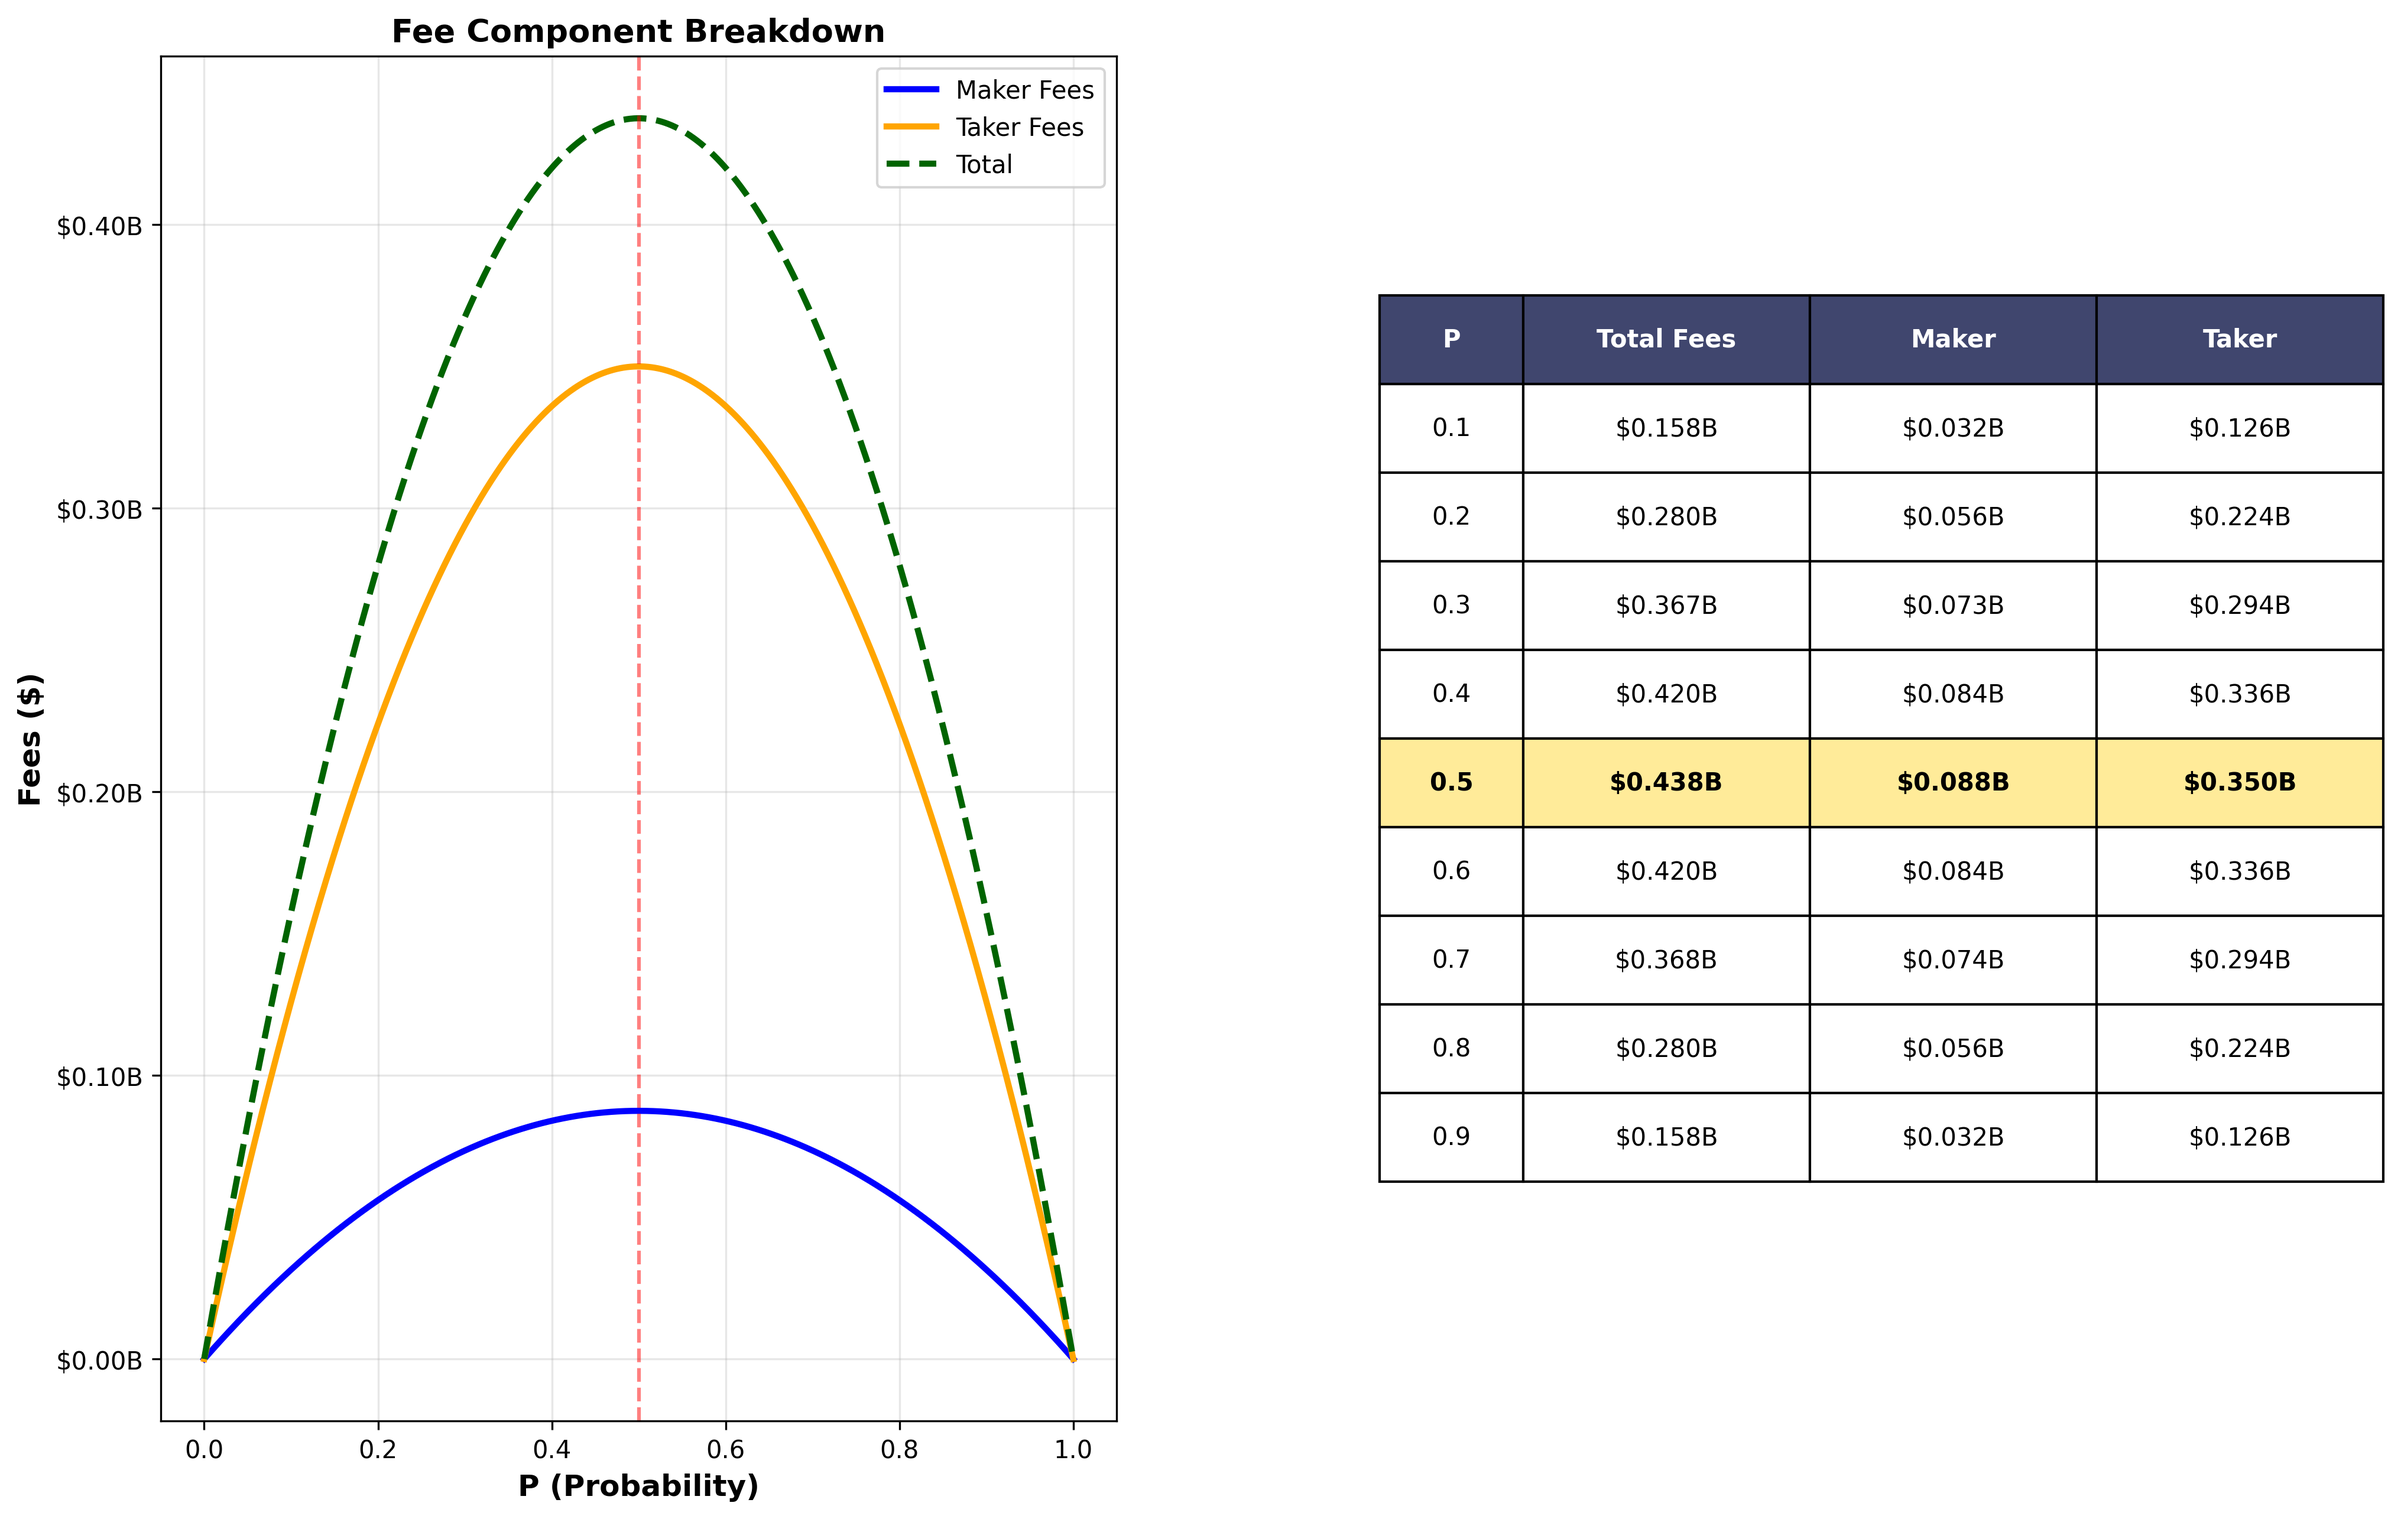
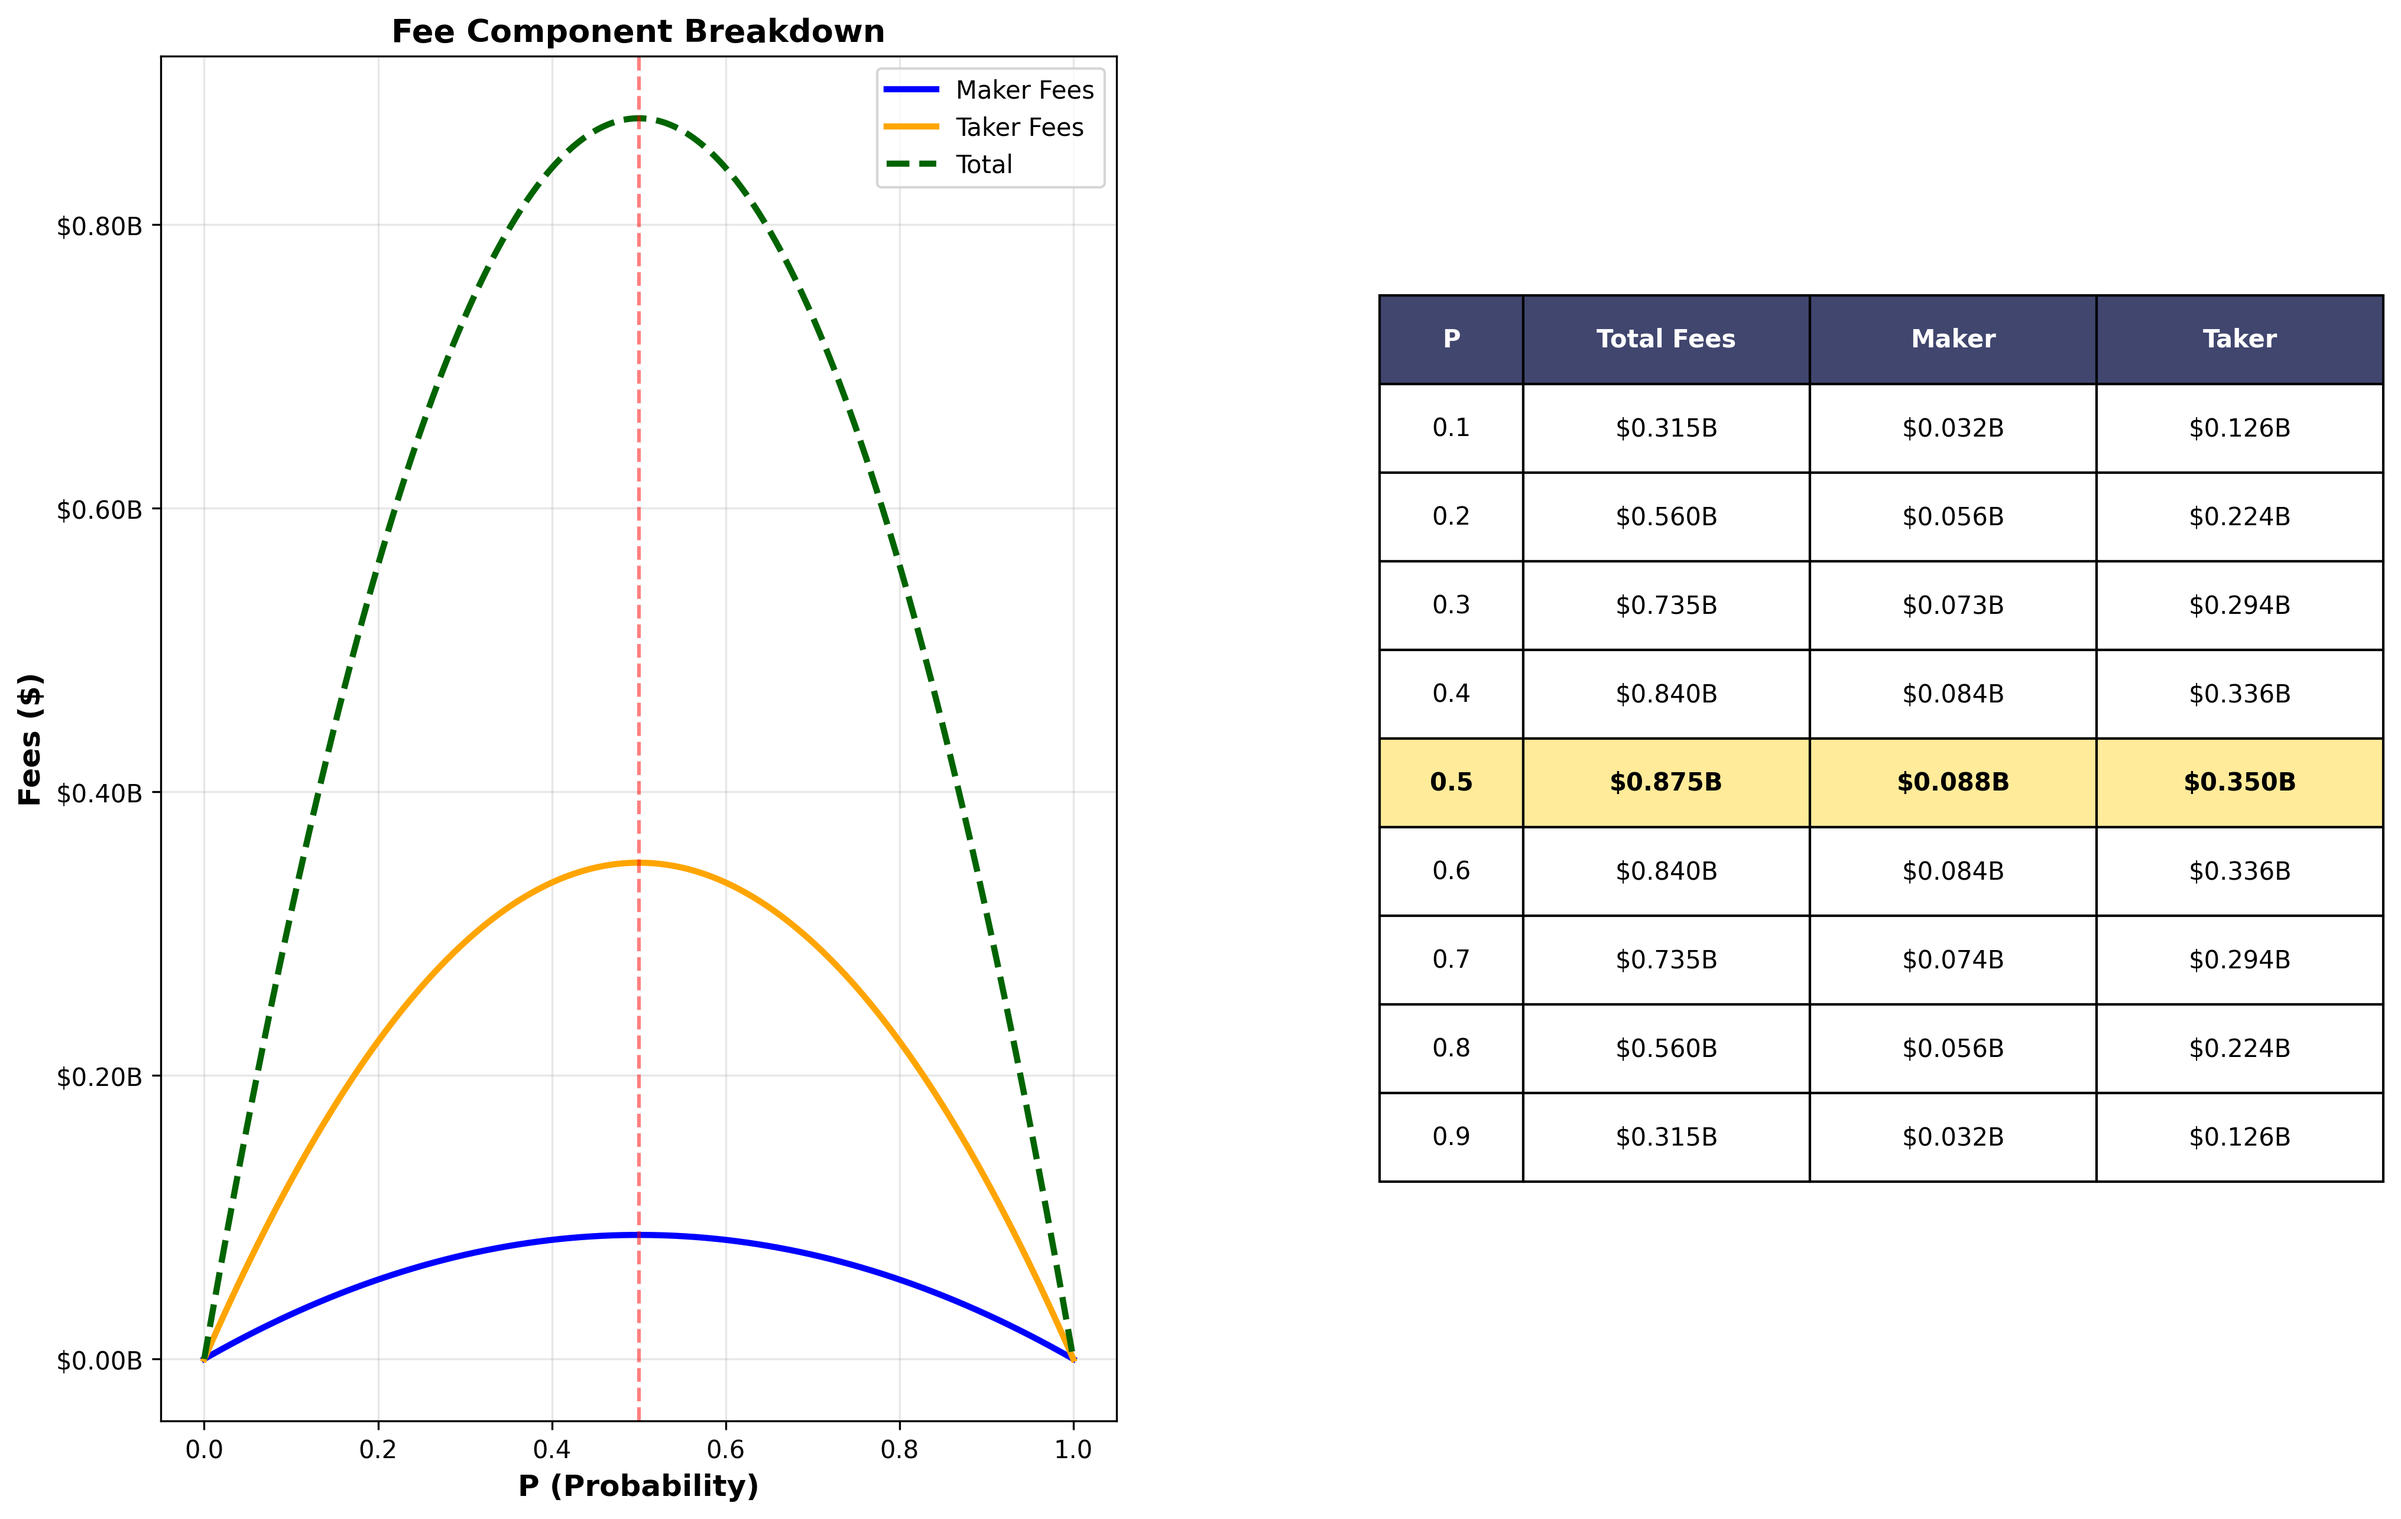
Fix total rev equation

diff --git a/Kalshi/kalshi_fees/total_revenue_distribution.py b/Kalshi/kalshi_fees/total_revenue_distribution.py
@@ -6,13 +6,13 @@ def calculate_total_fees(volume, p):
     """
     Calculate total fees (maker + taker) for a given volume and probability.
 
-    Formula: fee = (0.0175 * (volume * .5) * p(1-p)) + (0.07 * (volume * .5) * p(1-p))
+    Formula: fee = (0.0175 * volume * p(1-p)) + (0.07 * volume * p(1-p))
 
     Where:
     - 0.0175 = maker fee rate (1.75%)
     - 0.07 = taker fee rate (7%)
     """
-    return (0.0175 * (volume * 0.5) * p * (1 - p)) + (0.07 * (volume * 0.5) * p * (1 - p))
+    return (0.0175 * volume  * p * (1 - p)) + (0.07 * volume * p * (1 - p))
 
 # Fixed total volume: $40 billion in contracts
 TOTAL_VOLUME = 40_000_000_000
